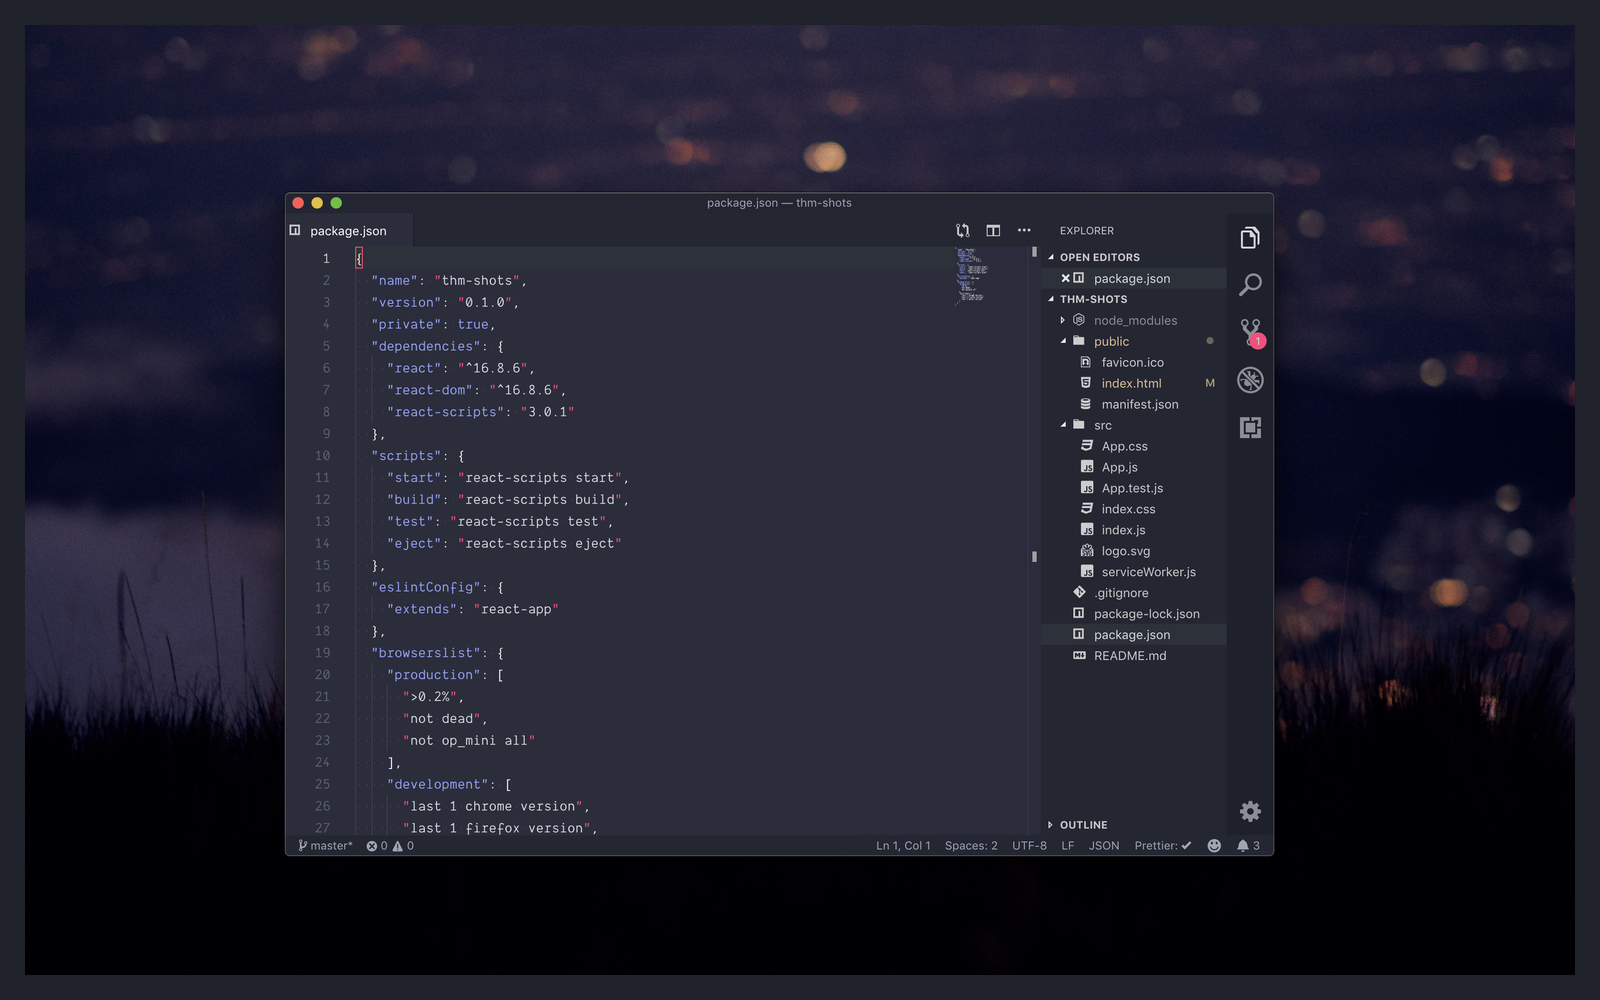
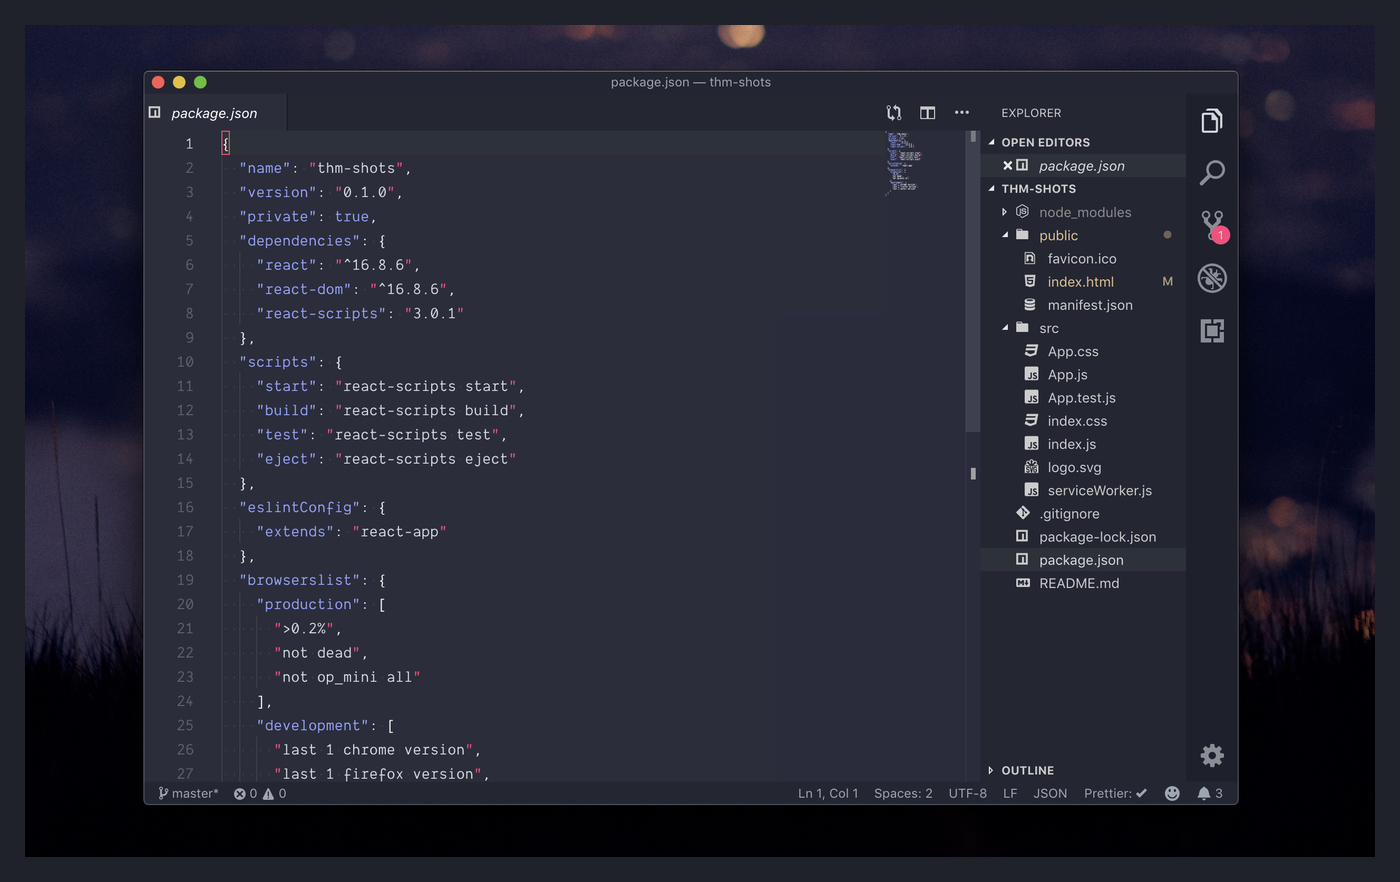
Fix screenshots, add more examples of plus version

diff --git a/README.md b/README.md
@@ -25,13 +25,23 @@ Thanks and don't forget to say hi!! :)
 
 ![](https://raw.githubusercontent.com/juanmnl/vs-hydra/master/screenshots/html.jpg)
 
-![](https://raw.githubusercontent.com/juanmnl/vs-hydra/master/screenshots/md.jpg)
+![](https://raw.githubusercontent.com/juanmnl/vs-hydra/master/screenshots/md-plus.jpg)
 
 ## Hydra Plus
 
 Hydra Plus comes with an extra color that makes things more readable but your eyes will get tired a bit quicker than the original version.
 
 ![](https://raw.githubusercontent.com/juanmnl/vs-hydra/master/screenshots/react-plus.jpg)
+
+![](https://raw.githubusercontent.com/juanmnl/vs-hydra/master/screenshots/css-plus.jpg)
+
+![](https://raw.githubusercontent.com/juanmnl/vs-hydra/master/screenshots/json-plus.jpg)
+
+![](https://raw.githubusercontent.com/juanmnl/vs-hydra/master/screenshots/js-plus.jpg)
+
+![](https://raw.githubusercontent.com/juanmnl/vs-hydra/master/screenshots/html-plus.jpg)
+
+![](https://raw.githubusercontent.com/juanmnl/vs-hydra/master/screenshots/md-plus.jpg)
 
 ## Installing
 
